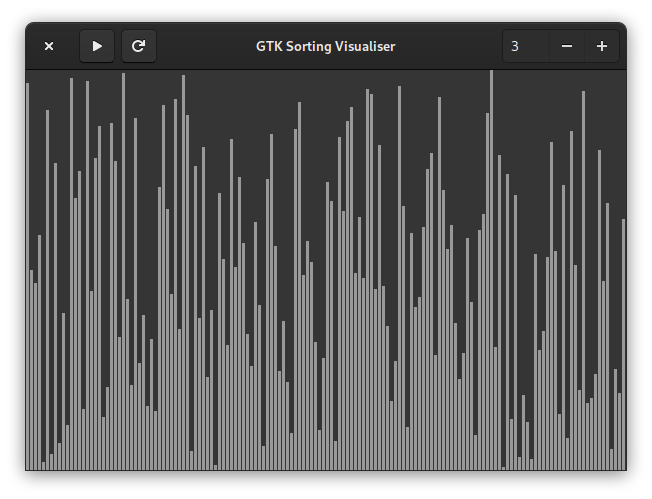
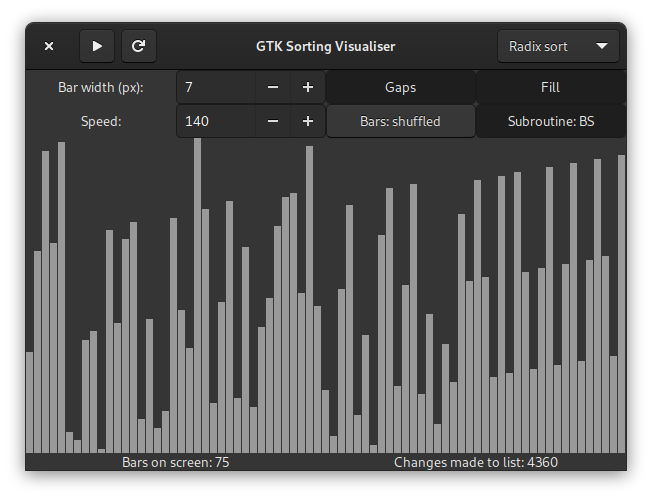
GUI completely rewritten in a separate XML file. Almost done.

Changed region(s): [[0.0307, 0.1202, 0.9816, 0.9619], [0.7669, 0.0601, 0.8896, 0.1202]]

diff --git a/gui.py b/gui.py
@@ -3,103 +3,74 @@ gi.require_version("Gtk", "3.0")
 from gi.repository import Gio, Gtk
 from algorithms import *
 import threading
+import time
+
+algsSwitcher = {
+	0: bubblesort,
+	1: countingsort,
+	2: insertionsort,
+	3: radixsort,
+	4: quicksort,
+	5: bogosort
+}
 
 listToSort = []
-refrRate = [60] # these are lists as a workaround for python not having pointers
-changesMade = [0]
+# 0. speed, 1. change count, 2. thread stopping event, 3. quicksort fast mode,
+# 4. digit for bubble and countingsort single-digit mode (used for radixsort, 0 = off),
+# 5. radix sort subroutine
+addl = [60, 0, threading.Event(), False, 0, countingsort]
+sortingThread = threading.Thread()
+# random: False, descending: True
+barsOrder = False
 
-class SortWindow(Gtk.Window):
+class Application(Gtk.Application):
 	def __init__(self):
-		Gtk.Window.__init__(self, default_width = 600, default_height = 400)
-		self.headerbar = Gtk.HeaderBar(show_close_button = True, title = "GTK Sorting Visualiser")
-		self.set_titlebar(self.headerbar)
-		self.mainBox = Gtk.Box.new(Gtk.Orientation.VERTICAL, 3)		
-		self.mainDArea = Gtk.DrawingArea()
-		self.optionsGrid = Gtk.Grid()
+		Gtk.Application.__init__(self, application_id="io.github.furtarball.gtk-sortvis")
+		handlers = {
+			"onStartClick": self.start_on_click,
+			"onRefrClick": self.refr_on_click,
+			"onAlgSwitch": self.algs_on_change,
+			"onBarsOrderToggle": self.bars_on_toggle,
+			"onDraw": self.on_draw,
+			"onToggle": self.on_setting_change
+		}
+		self.builder = Gtk.Builder.new_from_file("sortwindow.ui")
+		self.builder.connect_signals(handlers)
 		
-		self.startButton = Gtk.Button()
-		self.startIcon = Gio.ThemedIcon(name = "media-playback-start-symbolic")
-		self.startIconImage = Gtk.Image.new_from_gicon(self.startIcon, 4)
-		self.startButton.add(self.startIconImage)
-		self.startButton.connect("clicked", self.start_on_click)
-		self.startButton.set_tooltip_text("Start sorting")
+	def do_activate(self):
+		self.window = self.builder.get_object("sortWindow")
+		self.startBtn = self.builder.get_object("startBtn")
+		self.refrBtn = self.builder.get_object("refrBtn")
+		self.algsCombo = self.builder.get_object("algsCombo")
+		self.barWidthSBtn = self.builder.get_object("barWidthSBtn")
+		self.gapsToggle = self.builder.get_object("gapsToggle")
+		self.fillToggle = self.builder.get_object("fillToggle")
+		self.speedSBtn = self.builder.get_object("speedSBtn")
+		self.barsOrderToggle = self.builder.get_object("barsOrderToggle")
+		self.qsFastToggle = self.builder.get_object("qsFastToggle")
+		self.rsSubrtToggle = self.builder.get_object("rsSubrtToggle")
+		self.mainDArea = self.builder.get_object("mainDArea")
+		self.barsCountLbl = self.builder.get_object("barsCountLbl")
+		self.changesMadeLbl = self.builder.get_object("changesMadeLbl")
 		
-		self.refrButton = Gtk.Button()
-		self.refrIcon = Gio.ThemedIcon(name = "view-refresh-symbolic")
-		self.refrIconImage = Gtk.Image.new_from_gicon(self.refrIcon, 4)
-		self.refrButton.add(self.refrIconImage)
-		self.refrButton.connect("clicked", self.refr_on_click)
-		self.refrButton.set_tooltip_text("Reshuffle & redraw bars")
-		
-		self.barWidthSBtn = Gtk.SpinButton()
 		self.barWidthSBtn.set_range(1, 100)
 		self.barWidthSBtn.set_value(9)
-		self.barWidthSBtn.connect("value-changed", self.width_on_change)
 		self.barWidthSBtn.set_increments(1, -1)
-		self.barWidthSBtn.set_tooltip_text("Bar width in pixels")
-		
-		self.speedSBtn = Gtk.SpinButton()
 		self.speedSBtn.set_range(10, 12000)
-		self.speedSBtn.set_value(refrRate[0])
-		self.speedSBtn.connect("value-changed", self.speed_on_change)
+		self.speedSBtn.set_value(60)
 		self.speedSBtn.set_increments(10, -10)
-		self.speedSBtn.set_tooltip_text("Delay between every write to list ^ –1")
 		
-		self.algsStore = Gtk.ListStore(str)
-		self.algsStore.append(["Bubblesort"])
-		self.algsStore.append(["Quicksort"])
-		self.algsStore.append(["Bogosort"])
-		self.algsStore.append(["Insertion sort"])
-		self.algsStore.append(["Counting sort"])
-		self.algsStore.append(["Radix sort (counting sort subroutine)"])
-		self.algsStore.append(["Radix sort (bubblesort subroutine)"])
-		self.algsCombo = Gtk.ComboBox.new_with_model(self.algsStore)
-		self.algsRenderer = Gtk.CellRendererText()
-		self.algsCombo.pack_start(self.algsRenderer, True)
-		self.algsCombo.add_attribute(self.algsRenderer, "text", 0)
-		self.algsCombo.set_active(0)
-		
-		self.gapsToggle = Gtk.CheckButton.new_with_label("Gaps")
-		self.gapsToggle.set_active(True)
-		self.fillToggle = Gtk.CheckButton.new_with_label("Fill")
-		self.fillToggle.set_active(True)
-		
-		self.headerbar.pack_start(self.startButton)
-		self.headerbar.pack_start(self.refrButton)
-		self.headerbar.pack_end(self.algsCombo)
-		
-		# attach(child, left [>= 0], top [>= 0], width, height)
-		self.optionsGrid.attach(Gtk.Label("Bar width (px): "), 0, 0, 1, 1)
-		self.optionsGrid.attach(self.barWidthSBtn, 1, 0, 1, 1)
-		self.optionsGrid.attach(self.gapsToggle, 2, 0, 1, 1)
-		self.optionsGrid.attach(self.fillToggle, 3, 0, 1, 1)
-		self.optionsGrid.attach(Gtk.Label("Speed (Hz): "), 0, 1, 1, 1)
-		self.optionsGrid.attach(self.speedSBtn, 1, 1, 1, 1)
-		
-		self.barsCountLbl = Gtk.Label()
-		self.changesMadeLbl = Gtk.Label()
-		
-		self.mainBox.pack_start(self.optionsGrid, False, False, 0)
-		self.mainBox.pack_start(self.mainDArea, True, True, 0)
-		self.mainDArea.connect("draw", self.on_draw)
-		self.mainBox.pack_end(self.barsCountLbl, False, True, 0)
-		self.mainBox.pack_end(self.changesMadeLbl, False, True, 0)
-		self.add(self.mainBox)
-
-		self.algsSwitcher = {
-			0: [bubblesort, (0,)],
-			1: [quicksort, (0,)],
-			2: [bogosort, ()],
-			3: [insertionsort, ()],
-			4: [countingsort, (0,)],
-			5: [radixsort, (countingsort,)],
-			6: [radixsort, (bubblesort,)]
-		}
+		self.window.set_application(self)
+		self.window.show_all()
+		self.generate_heights()
+		self.qsFastToggle.hide()
+		self.rsSubrtToggle.hide()
 		
 	def generate_heights(self):
 		global listToSort
-		listToSort = generate_list(self.mainDArea.get_allocation().height, round(self.mainDArea.get_allocation().width / (self.barWidthSBtn.get_value_as_int() + self.gapsToggle.get_active())))
+		listToSort = generate_list(self.mainDArea.get_allocation().height, round(self.mainDArea.get_allocation().width / (self.barWidthSBtn.get_value_as_int() + self.gapsToggle.get_active())), barsOrder)
 		self.barsCountLbl.set_label("Bars on screen: " + str(len(listToSort)))
+		self.mainDArea.queue_draw()
 		
 	def on_draw(self, widget, cairoContext):
 		dontfill = (not self.fillToggle.get_active())
@@ -110,26 +81,67 @@ class SortWindow(Gtk.Window):
 			# left margin, top margin, width, height
 			cairoContext.rectangle(dontfill + (self.barWidthSBtn.get_value_as_int() + self.gapsToggle.get_active()) * i, self.mainDArea.get_allocation().height - listToSort[i] + dontfill, self.barWidthSBtn.get_value_as_int() - dontfill, listToSort[i] - dontfill) 
 		cairoContext.fill() if self.fillToggle.get_active() else cairoContext.stroke()
-		self.changesMadeLbl.set_label("Changes made to list: " + str(changesMade[0]))
+		self.changesMadeLbl.set_label("Changes made to list: " + str(addl[1]))
 
-	def on_timeout(self, widget, frameClock, thread):
+	def on_tick(self, widget, frameClock, thread):
 		self.mainDArea.queue_draw()
 		return thread.is_alive()
 
 	def start_on_click(self, widget):
-		self.alg = self.algsSwitcher[self.algsCombo.get_active()]
-		sortingThread = threading.Thread(target = self.alg[0], args = (listToSort, refrRate, changesMade) + (self.alg[1] if self.alg[0] != quicksort else self.alg[1] + (len(listToSort) - 1,)), daemon = True)
+		choice = algsSwitcher[self.algsCombo.get_active()]
+		arguments = (listToSort, addl)
+		if choice == quicksort:
+			arguments += (0, len(listToSort) - 1)
+		sortingThread = threading.Thread(target = choice, args = arguments, daemon = True)
+		addl[4] = 0
+		addl[2].clear()
 		sortingThread.start()
-		self.add_tick_callback(self.on_timeout, sortingThread)
+		self.window.add_tick_callback(self.on_tick, sortingThread)
 		
 	def refr_on_click(self, widget):
+		addl[2].set()
+		addl[1] = 0
 		self.generate_heights()
 		self.mainDArea.queue_draw()
-		changesMade[0] = 0
+
+	def algs_on_change(self, widget):
+		addl[2].set()
+		if widget.get_name() == "GtkComboBoxText":
+			if widget.get_active() == 4:
+				self.rsSubrtToggle.hide()
+				self.qsFastToggle.show()
+			elif widget.get_active() == 3:
+				self.qsFastToggle.hide()
+				self.rsSubrtToggle.show()
+			else:
+				self.qsFastToggle.hide()
+				self.rsSubrtToggle.hide()
+		else:
+			if widget.get_active():
+				addl[5] = bubblesort
+				self.rsSubrtToggle.set_label("Subroutine: BS")
+			else:
+				addl[5] = countingsort
+				self.rsSubrtToggle.set_label("Subroutine: CS")
 		
-	def speed_on_change(self, widget):
-		refrRate[0] = self.speedSBtn.get_value_as_int()
-		
-	def width_on_change(self, widget):
-		if widget.get_value_as_int() < 3:
+	def bars_on_toggle(self, widget):
+		global barsOrder
+		if widget.get_active():
+			barsOrder = True
+			widget.set_label("Bars: descending")
+		else:
+			barsOrder = False
+			widget.set_label("Bars: shuffled")
+		print(sortingThread)
+		if addl[2].is_set():
+			self.generate_heights()
+			
+	def on_setting_change(self, widget):
+		addl[0] = self.speedSBtn.get_value_as_int()
+		addl[3] = self.qsFastToggle.get_active()
+		if self.barWidthSBtn.get_value_as_int() < 3:
 			self.fillToggle.set_active(True)
+			self.fillToggle.set_sensitive(False)
+		else:
+			self.fillToggle.set_sensitive(True)
+		self.mainDArea.queue_draw()

diff --git a/algorithms.py b/algorithms.py
@@ -2,13 +2,12 @@ import time
 import random
 from collections import Counter
 
-def generate_list(maximum, itemsNo):
+def generate_list(maximum, itemsNo, order):
 	generatedList = []
-	i = 1
-	while i <= itemsNo:
+	for i in range(itemsNo, 0, -1):
 		generatedList.append(round(i / itemsNo * maximum))
-		i += 1
-	random.shuffle(generatedList)
+	if not order:
+		random.shuffle(generatedList)
 	return generatedList
 	
 def nth_digit(x, n):
@@ -17,65 +16,87 @@ def nth_digit(x, n):
 	else:
 		return x // 10 ** (n - 1) % 10
 
-def bubblesort(numbers, fps, changes, digit):
+def bubblesort(numbers, addtl):
 	end = len(numbers) - 1
 	while end > 0:
 		for i in range(end):
-			if nth_digit(numbers[i], digit) > nth_digit(numbers[i+1], digit):
+			if nth_digit(numbers[i], addtl[4]) > nth_digit(numbers[i+1], addtl[4]):
 				(numbers[i], numbers[i+1]) = (numbers[i+1], numbers[i])
-				time.sleep(fps[0] ** -1)
-				changes[0] += 1
+				time.sleep(addtl[0] ** -1)
+				addtl[1] += 2
+			if addtl[2].is_set():
+				addtl[1] = 0
+				return
 		end -= 1
 
-def quicksort_partition(numbers, low, high, fps, changes):
+def quicksort_partition(numbers, low, high, addtl):
 	i = low - 1
 	for j in range(low, high):
 		if numbers[j] <= numbers[high]:
 			i += 1
 			(numbers[i], numbers[j]) = (numbers[j], numbers[i])
-			time.sleep(fps[0] ** -1)
-			changes[0] += 1
+			if not ((addtl[3]) and (numbers[i] == numbers[j])):
+				print(((addtl[3]) and (numbers[i] == numbers[j])))
+				time.sleep(addtl[0] ** -1)
+			addtl[1] += 2
+		if addtl[2].is_set():
+			addtl[1] = 0
+			break
 	(numbers[high], numbers[i + 1]) = (numbers[i + 1], numbers[high])
-	time.sleep(fps[0] ** -1)
-	changes[0] += 1
+	time.sleep(addtl[0] ** -1)
+	addtl[1] += 2
 	return i + 1
 
-def quicksort(numbers, fps, changes, low, high):
+def quicksort(numbers, addtl, low, high):
+	if addtl[2].is_set():
+		addtl[1] = 0
+		return
 	if low < high: # if there's more than one item in the (sub)list
-		pivot = quicksort_partition(numbers, low, high, fps, changes) #quicksort_partition() returns the pivot
-		quicksort(numbers, fps, changes, low, pivot - 1) #for sublist left of the pivot
-		quicksort(numbers, fps, changes, pivot + 1, high) #for sublist right of the pivot
+		pivot = quicksort_partition(numbers, low, high, addtl) #quicksort_partition() returns the pivot
+		quicksort(numbers, addtl, low, pivot - 1) #for sublist left of the pivot
+		quicksort(numbers, addtl, pivot + 1, high) #for sublist right of the pivot
 
-def bogosort(numbers, fps, changes):
+def bogosort(numbers, addtl):
 	while not all(numbers[i+1] >= numbers[i] for i in range(len(numbers) - 1)):
 		random.shuffle(numbers)
-		time.sleep(fps[0] ** -1)
-		changes[0] += 1
+		time.sleep(addtl[0] ** -1)
+		addtl[1] += len(numbers)
+		if addtl[2].is_set():
+			addtl[1] = 0
+			return
 
-def insertionsort(numbers, fps, changes):
+def insertionsort(numbers, addtl):
 		for i in range(len(numbers)):
 			for j in range(i + 1, len(numbers)):
 				if numbers[i] > numbers[j]:
 					(numbers[i], numbers[j]) = (numbers[j], numbers[i])
-					time.sleep(fps[0] ** -1)
-					changes[0] += 1
+					time.sleep(addtl[0] ** -1)
+					addtl[1] += 2
+				if addtl[2].is_set():
+					addtl[1] = 0
+					return
 
 # NOT an accurate visual representation. Counting sort does not and cannot work on the
-# original, unsorted list. Here it uses a copy instead of creating an empty one.
-def countingsort(numbers, fps, changes, digit): # assign digit as 0 to disable radixsort mode
+# original, unsorted list. Here it uses a copy instead of creating an empty one. This
+# is also why counting and radix sort do their thing even if the list is already sorted.
+def countingsort(numbers, addtl):
 	numbersDigitOnly = numbers.copy()
 	for i in range(len(numbers)):
-		numbersDigitOnly[i] = nth_digit(numbers[i], digit)
+		numbersDigitOnly[i] = nth_digit(numbers[i], addtl[4])
 	index = Counter(numbersDigitOnly)
 	original = numbers.copy()
 	for i in range(1, max(numbersDigitOnly) + 1):
 		index[i] += index[i - 1]
 	for i in range(len(original) - 1, -1, -1):
-		numbers[index[nth_digit(original[i], digit)] - 1] = original[i]
-		time.sleep(fps[0] ** -1)
-		changes[0] += 1
-		index[nth_digit(original[i], digit)] -= 1
+		numbers[index[nth_digit(original[i], addtl[4])] - 1] = original[i]
+		time.sleep(addtl[0] ** -1)
+		addtl[1] += 1
+		index[nth_digit(original[i], addtl[4])] -= 1
+		if addtl[2].is_set():
+			addtl[1] = 0
+			return
 		
-def radixsort(numbers, fps, changes, subroutine):
+def radixsort(numbers, addtl):
 	for j in range(len(str(max(numbers)))):
-		subroutine(numbers, fps, changes, j+1)
+		addtl[4] = j+1
+		addtl[5](numbers, addtl)

diff --git a/main.py b/main.py
@@ -1,7 +1,4 @@
 from gui import *
 
-window = SortWindow()
-window.connect("destroy", Gtk.main_quit)
-window.show_all()
-window.generate_heights() # we need to call this *after* the widgets are drawn
-Gtk.main()
+app = Application()
+app.run()
